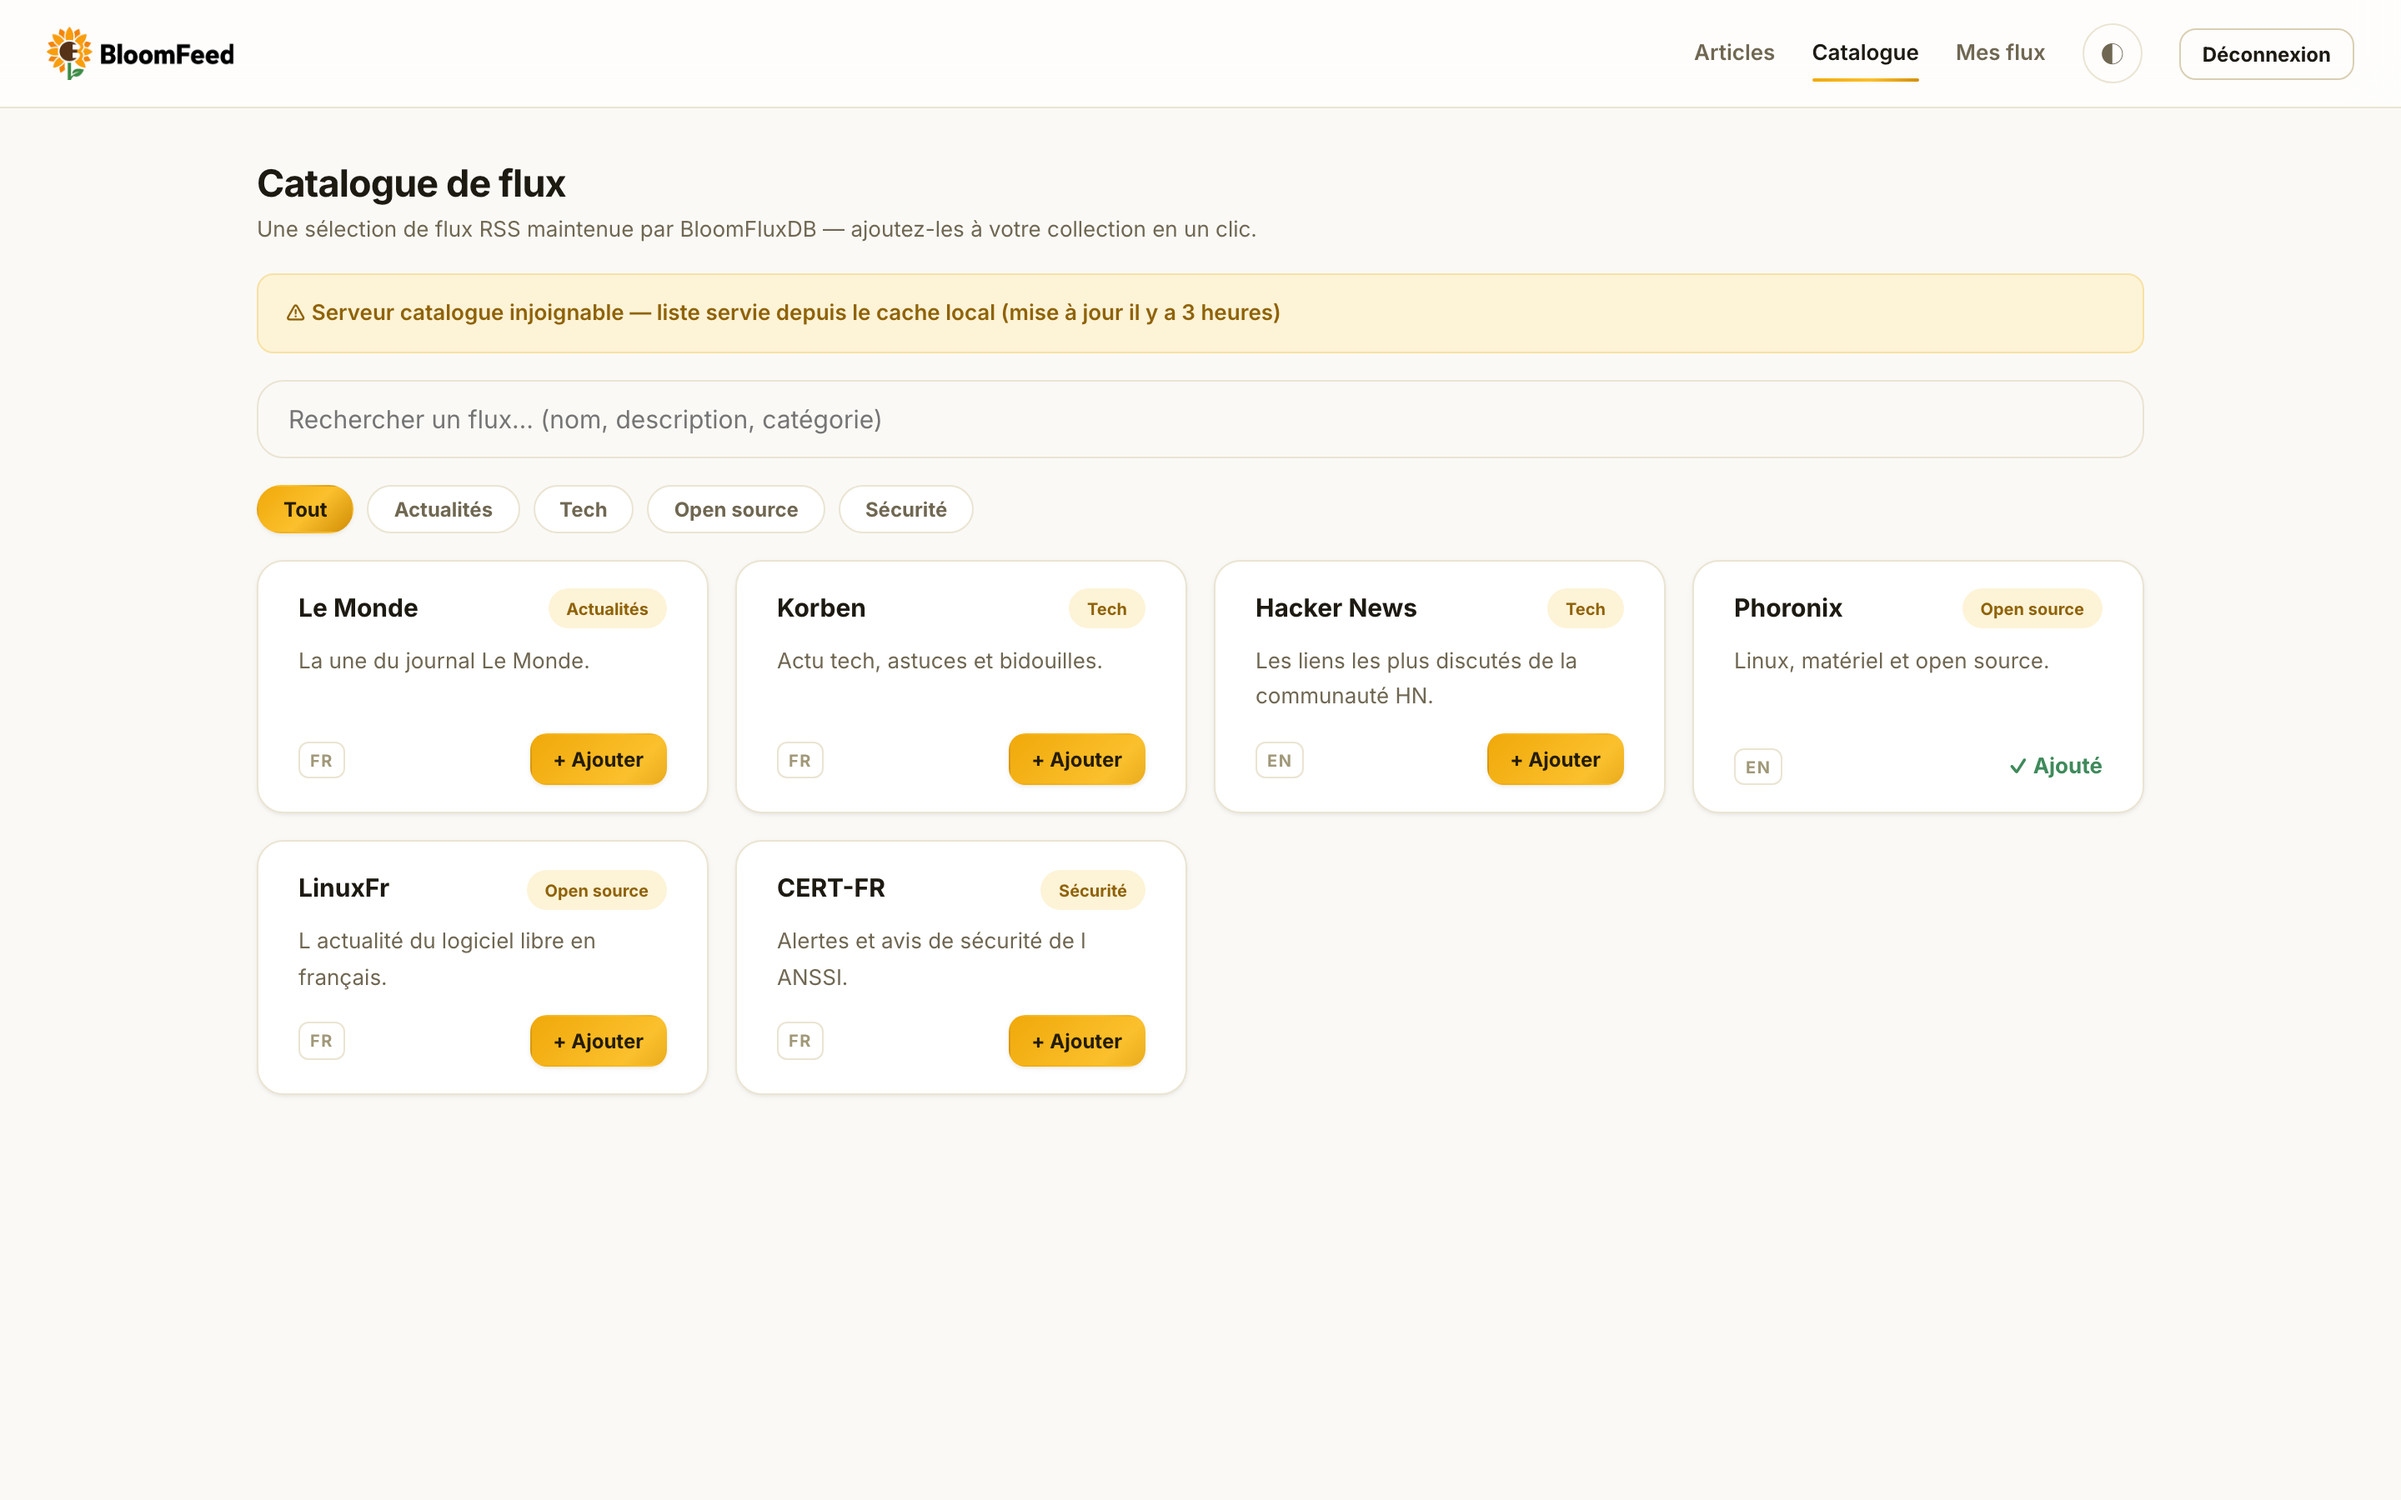
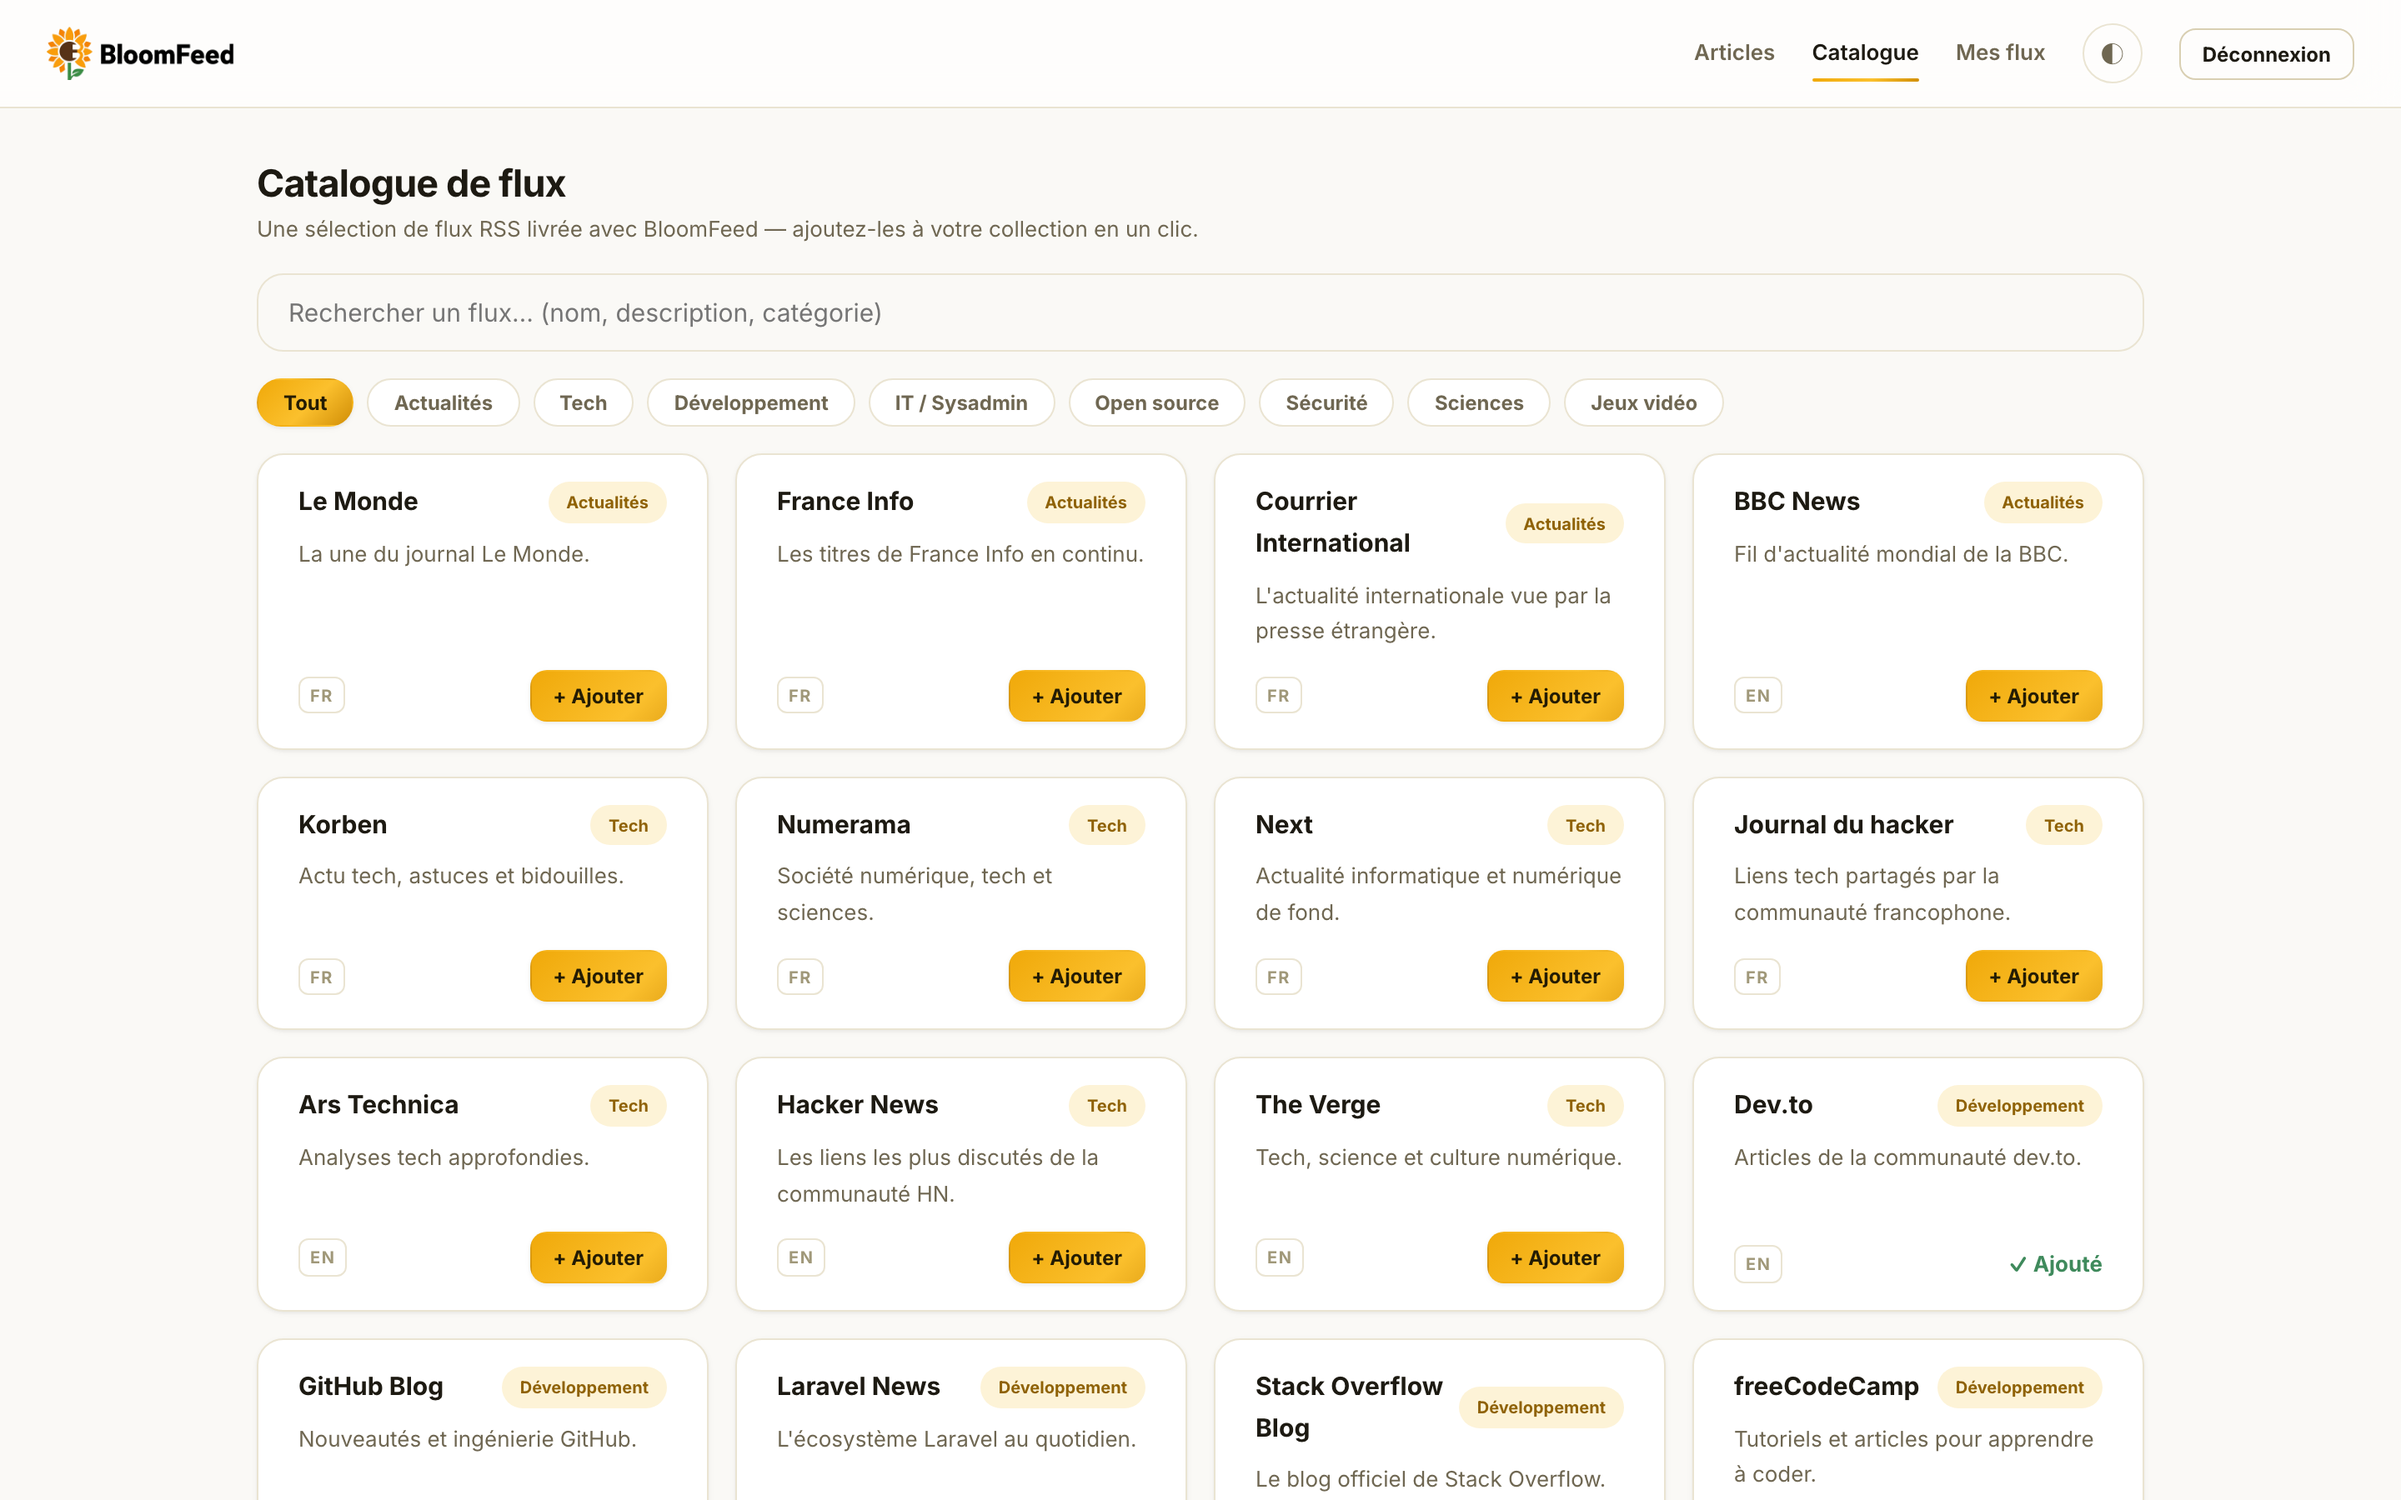
BloomFeed Bash Script Upgrade v0.2

diff --git a/public/css/app.css b/public/css/app.css
@@ -1008,17 +1008,6 @@ h1, h2, h3 {
     flex-wrap: wrap;
 }
 
-.cache-notice {
-    background: var(--accent-soft);
-    border: 1px solid var(--accent-soft-strong);
-    border-radius: var(--radius-sm);
-    padding: 12px 16px;
-    font-size: var(--font-sm);
-    font-weight: 600;
-    color: var(--accent-strong);
-    animation: fade-up 350ms var(--ease-out) both;
-}
-
 .market-search {
     font-size: var(--font-base);
     padding: 13px 18px;

diff --git a/app/Services/FluxCatalogService.php b/app/Services/FluxCatalogService.php
@@ -2,53 +2,28 @@
 
 namespace App\Services;
 
-use Illuminate\Support\Carbon;
-use Illuminate\Support\Facades\Cache;
-use Illuminate\Support\Facades\DB;
 use Illuminate\Support\Facades\Log;
 use Throwable;
 
 class FluxCatalogService
 {
-    private const CACHE_KEY = 'bloomflux.catalog';
-
-    private const CACHE_TIME_KEY = 'bloomflux.catalog_updated_at';
-
     /**
-     * Retourne le catalogue BloomFluxDB, en le rafraîchissant depuis le serveur
-     * distant quand il est joignable, sinon en servant la dernière copie en cache.
+     * Retourne le catalogue de flux embarqué (resources/data/bloomflux.json).
+     * La liste est versionnée avec le code : la mettre à jour = éditer le fichier et commit.
      *
-     * @return array{feeds: list<array{title: string, url: string, category: string, lang: string, description: ?string}>, fromCache: bool, updatedAt: ?Carbon}
+     * @return list<array{title: string, url: string, category: string, lang: string, description: ?string}>
      */
     public function getCatalog(): array
     {
         try {
-            $rows = DB::connection('bloomflux')
-                ->table('feeds')
-                ->where('is_active', 1)
-                ->orderBy('category')
-                ->orderBy('title')
-                ->get(['title', 'url', 'category', 'lang', 'description'])
-                ->map(fn ($row) => (array) $row)
-                ->all();
+            $raw = file_get_contents(resource_path('data/bloomflux.json'));
+            $data = json_decode($raw, true, 512, JSON_THROW_ON_ERROR);
 
-            Cache::forever(self::CACHE_KEY, $rows);
-            Cache::forever(self::CACHE_TIME_KEY, now()->toIso8601String());
-
-            return ['feeds' => $rows, 'fromCache' => false, 'updatedAt' => now()];
+            return $data['feeds'] ?? [];
         } catch (Throwable $e) {
-            Log::warning('BloomFluxDB unreachable, serving cached catalog', [
-                'error' => $e->getMessage(),
-            ]);
+            Log::warning('Catalogue bloomflux.json illisible', ['error' => $e->getMessage()]);
 
-            $cached = Cache::get(self::CACHE_KEY, []);
-            $updatedAt = Cache::get(self::CACHE_TIME_KEY);
-
-            return [
-                'feeds' => $cached,
-                'fromCache' => true,
-                'updatedAt' => $updatedAt ? Carbon::parse($updatedAt) : null,
-            ];
+            return [];
         }
     }
 }

diff --git a/resources/views/catalog.blade.php b/resources/views/catalog.blade.php
@@ -10,26 +10,14 @@
         <div>
             <h2 style="margin:0;">Catalogue de flux</h2>
             <p class="text-muted text-sm" style="margin:4px 0 0;">
-                Une sélection de flux RSS maintenue par BloomFluxDB — ajoutez-les à votre collection en un clic.
+                Une sélection de flux RSS livrée avec BloomFeed — ajoutez-les à votre collection en un clic.
             </p>
         </div>
     </div>
 
-    @if ($fromCache)
-        <div class="cache-notice">
-            ⚠ Serveur catalogue injoignable — liste servie depuis le cache local
-            @if ($updatedAt)
-                (mise à jour {{ $updatedAt->diffForHumans() }})
-            @endif
-        </div>
-    @endif
-
     @if ($feeds->isEmpty())
         <div class="card empty-state">
             Le catalogue est vide pour le moment.
-            @if ($fromCache)
-                Il sera récupéré automatiquement dès que le serveur catalogue sera joignable.
-            @endif
         </div>
     @else
         <input type="search" id="market-search" class="form-input market-search" placeholder="Rechercher un flux… (nom, description, catégorie)">

diff --git a/config/database.php b/config/database.php
@@ -64,24 +64,6 @@ return [
             ]) : [],
         ],
 
-        // Catalogue central BloomFluxDB (lecture seule, distant) — timeout court
-        // pour ne jamais bloquer la page si le serveur catalogue est injoignable.
-        'bloomflux' => [
-            'driver' => 'mysql',
-            'host' => env('BLOOMFLUX_DB_HOST', '163.5.159.95'),
-            'port' => env('BLOOMFLUX_DB_PORT', '3306'),
-            'database' => env('BLOOMFLUX_DB_DATABASE', 'bloomfluxdb'),
-            'username' => env('BLOOMFLUX_DB_USERNAME', 'bloomflux_reader'),
-            'password' => env('BLOOMFLUX_DB_PASSWORD', 'BloomFlux_Public_Read_2026'),
-            'charset' => 'utf8mb4',
-            'collation' => 'utf8mb4_unicode_ci',
-            'prefix' => '',
-            'strict' => true,
-            'options' => extension_loaded('pdo_mysql') ? [
-                \PDO::ATTR_TIMEOUT => (int) env('BLOOMFLUX_DB_TIMEOUT', 4),
-            ] : [],
-        ],
-
         'mariadb' => [
             'driver' => 'mariadb',
             'url' => env('DB_URL'),

diff --git a/app/Http/Controllers/CatalogController.php b/app/Http/Controllers/CatalogController.php
@@ -10,14 +10,10 @@ class CatalogController extends Controller
 {
     public function index(Request $request, FluxCatalogService $catalog): View
     {
-        $result = $catalog->getCatalog();
-
         $subscribedUrls = $request->user()->feeds()->pluck('url')->all();
 
         return view('catalog', [
-            'feeds' => collect($result['feeds'])->groupBy('category'),
-            'fromCache' => $result['fromCache'],
-            'updatedAt' => $result['updatedAt'],
+            'feeds' => collect($catalog->getCatalog())->groupBy('category'),
             'subscribedUrls' => $subscribedUrls,
         ]);
     }

diff --git a/README.md b/README.md
@@ -21,8 +21,8 @@ n'a qu'un seul compte propriétaire, créé une seule fois au premier lancement.
 - Lecture approfondie intégrée : extraction du contenu principal (via
   [Readability](https://github.com/fivefilters/readability.php)) converti en Markdown, sans
   quitter BloomFeed.
-- Catalogue de flux façon "market" alimenté par **BloomFluxDB** (base centrale en lecture seule),
-  avec cache local de secours si le serveur catalogue est injoignable.
+- Catalogue de flux façon "market" : une sélection de flux embarquée avec l'application
+  ([resources/data/bloomflux.json](resources/data/bloomflux.json)), à ajouter en un clic.
 - Récupération périodique des flux via une tâche planifiée.
 - Thème clair/sombre.
 - Inscription fermée après la création du compte propriétaire — pas de SaaS ouvert.
@@ -80,22 +80,18 @@ Pour désinstaller proprement (avec confirmation avant toute suppression de donn
 bash uninstall.sh
 ```
 
-## BloomFluxDB (catalogue central)
+## Catalogue de flux (BloomFlux)
 
-Les instances BloomFeed consultent en lecture seule une base MariaDB centrale contenant une
-liste de flux pré-sélectionnés, affichée dans l'onglet **Catalogue**. La liste est mise en cache
-localement : si le serveur catalogue est injoignable, la dernière copie connue est servie, et
-elle se rafraîchit automatiquement à la prochaine consultation réussie.
+L'onglet **Catalogue** propose une sélection de flux pré-faits (actualités, tech, développement,
+IT/sysadmin, sécurité, sciences…) à ajouter en un clic. La liste vit dans
+[resources/data/bloomflux.json](resources/data/bloomflux.json), versionnée avec le code : pour
+l'enrichir, éditez le fichier et déployez — aucun service externe n'est nécessaire.
 
-Le script de création (base, table, utilisateur `bloomflux_reader` en `SELECT` uniquement, et
-liste de flux initiale) est dans [docs/bloomfluxdb-setup.sql](docs/bloomfluxdb-setup.sql) — à
-exécuter sur le serveur catalogue :
+Format d'une entrée :
 
-```bash
-mysql -u root -p < docs/bloomfluxdb-setup.sql
+```json
+{ "title": "Nom du flux", "url": "https://exemple.com/rss.xml", "category": "Tech", "lang": "fr", "description": "Courte description." }
 ```
-
-La connexion se configure dans le `.env` de chaque instance via les variables `BLOOMFLUX_DB_*`.
 
 ## Licence
 
